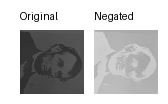
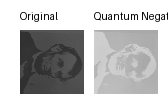
calculated MSE values for the negated images

Changed region(s): [[0.5357, 0.1154, 1.0, 0.2308]]

diff --git a/TextToGrayNegation.py b/TextToGrayNegation.py
@@ -1,10 +1,15 @@
 from PIL import Image, ImageDraw, ImageFont
 from qiskit import QuantumCircuit, QuantumRegister, ClassicalRegister
 from qiskit_aer import AerSimulator
+import numpy as np
 
 # --- Convert int to bits ---
 def int_to_bits(value, num_bits):
     return [int(bit) for bit in bin(value)[2:].zfill(num_bits)]
+
+# --- Classical pixel negation ---
+def classical_negate_pixel(value):
+    return 255 - value
 
 # --- Quantum pixel negation ---
 def negate_pixel(value, bits, qc, qr, cr, offset=0):
@@ -31,7 +36,7 @@ def save_side_by_side_images(original_img, negated_img, output_path):
     draw = ImageDraw.Draw(combined)
     font = ImageFont.load_default()
     draw.text((20, 10), "Original", fill=(0, 0, 0), font=font)
-    draw.text((width + 30, 10), "Negated", fill=(0, 0, 0), font=font)
+    draw.text((width + 30, 10), "Quantum Negated", fill=(0, 0, 0), font=font)
 
     combined.save(output_path)
     print(f"[✔] Side-by-side image saved: {output_path}")
@@ -57,7 +62,7 @@ def matrix_to_image(matrix):
 def quantum_negate_grayscale_matrix(matrix, bits=8):
     height = len(matrix)
     width = len(matrix[0])
-    negated = [[0 for _ in range(width)] for _ in range(height)]
+    quantum_negated = [[0 for _ in range(width)] for _ in range(height)]
     printed_circuits = 0
 
     for r in range(height):
@@ -69,7 +74,7 @@ def quantum_negate_grayscale_matrix(matrix, bits=8):
             negate_pixel(val, bits, qc, qr, cr)
 
             if printed_circuits < 8:
-                print(f"\nQuantum Circuit for pixel ({r},{c}):")
+                print(f"\nQuantum Circuit for pixel ({r},{c}) value {val}:")
                 print(qc.draw(output="text"))
                 printed_circuits += 1
 
@@ -77,9 +82,16 @@ def quantum_negate_grayscale_matrix(matrix, bits=8):
             job = backend.run(qc, shots=1)
             counts = job.result().get_counts()
             bitstring = list(counts.keys())[0]
-            negated[r][c] = int(bitstring, 2)
+            quantum_negated[r][c] = int(bitstring, 2)
 
-    return negated
+    return quantum_negated
+
+# --- Mean Squared Error ---
+def calculate_mse(image1, image2):
+    np1 = np.array(image1, dtype=np.float32)
+    np2 = np.array(image2, dtype=np.float32)
+    mse = np.mean((np1 - np2) ** 2)
+    return mse
 
 # --- Main Execution ---
 if __name__ == "__main__":
@@ -89,9 +101,18 @@ if __name__ == "__main__":
     ascii_matrix = text_file_to_grayscale_matrix(text_file)
     orig_img = matrix_to_image(ascii_matrix)
 
-    print("\nRunning quantum negation on grayscale image...")
-    negated_matrix = quantum_negate_grayscale_matrix(ascii_matrix, bits=8)
-    negated_img = matrix_to_image(negated_matrix)
+    # Classical Negation for MSE comparison
+    classical_negated_matrix = [[classical_negate_pixel(val) for val in row] for row in ascii_matrix]
+    classical_negated_img = matrix_to_image(classical_negated_matrix)
 
+    print("\nRunning quantum negation on grayscale image...")
+    quantum_negated_matrix = quantum_negate_grayscale_matrix(ascii_matrix, bits=8)
+    quantum_negated_img = matrix_to_image(quantum_negated_matrix)
+
+    # Calculate MSE between classical and quantum negated images
+    mse = calculate_mse(classical_negated_img, quantum_negated_img)
+    print(f"\n[✓] MSE between classical and quantum negated images: {mse:.2f}")
+
+    # Save image
     save_path = "text_quantum_negated_side_by_side.png"
-    save_side_by_side_images(orig_img, negated_img, save_path)
+    save_side_by_side_images(orig_img, quantum_negated_img, save_path)
